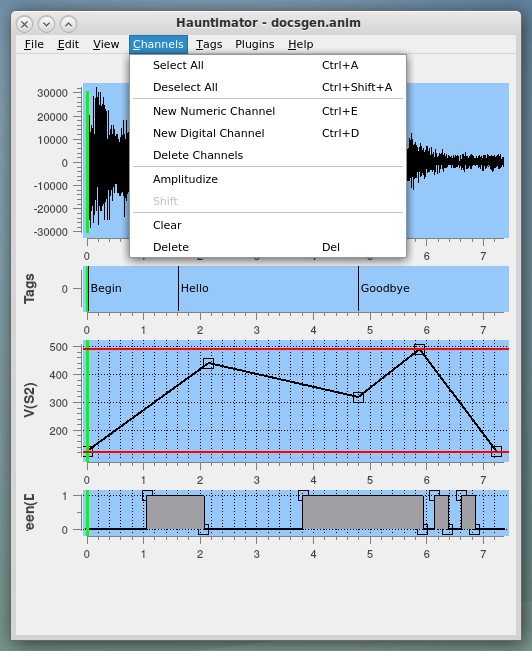
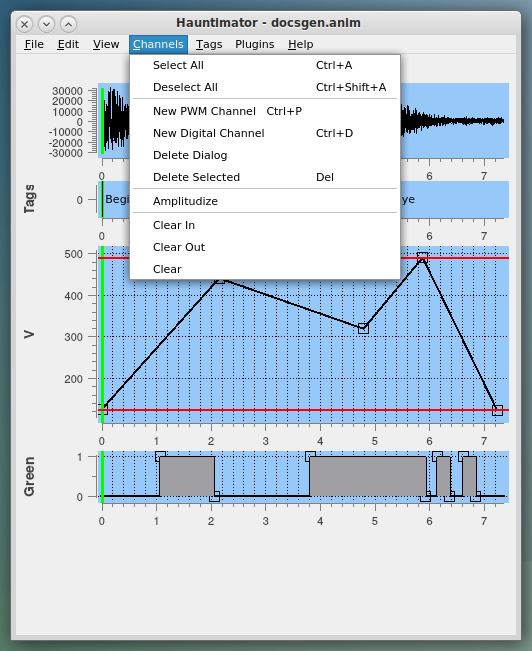
Updated docs for new menus and features

diff --git a/docs/Help.md b/docs/Help.md
@@ -229,12 +229,15 @@ one or more entire channels but not points within a channel.  Users may Paste or
 of points copied from a single channel into one or more selected channels as new points within
 those channels.  Users may Paste a single channel into one or more selected channels, replacing
 all data within those channels except name and port number.  When Pasting, the user will be given
-choice between Pasting or Inserting the copied channel.  If Insert At is selected, the channel
+choice between Pasting or Inserting the copied channel.  If Insert is selected, the channel
 will be inserted at the selected channel with a modified name and the port number cleared if
 they are already present in the animation.  If multiple channels have been Cut or Copied, they
 may only be inserted at the current selection.  Note that Insert always Inserts and does not
 give the option of overwriting the current content of a channel.  Otherwise, it behaves like
 Paste.
+
+The editing features also support copying channels from one animation file to another either
+within a single instance of Hauntimator or between multiple instances of Hauntimator.
 
 A note on selection.  To select a channel, the user clicks on the area to the left of the main
 data display window in a manner similar to Excel when selecting an entire row.  The user may
@@ -305,6 +308,7 @@ to files and communication.  The individual preferences are:
 + ServoDataFile - The name of the file containing known servo types and their associated information.  The user may rename this file or move it so the preference allows that.  The values in the servo file are used to set initial limits on the channel values.  These are based on the ServoDefaultMaximum and ServoDefaultMinimum and the duty cycle of the servo from the file.  These are NOT used to distinguish servos on GPIO pins from servos on PCA9685 boards.  That is done within the controller.
 + UploadPath - The name of the directory to upload audio and control files to as it is used in the controller software.  The Pico software that accompanies the Hauntimator and is run on the Pico looks for a particular file and this must match that.  This will typically be on the SD card and look like "/sd/anims" to match expectations in the controller software.  If the controller software is edited, this can be changed to match.  Note that this is irrelevant if writing files locally to an SD card to be transferred later to the controller.
 + TTYPortRoot - This is most of the name of the communications port to use to talk to the controller when it is plugged into the USB port on the computer that Hauntimator runs on.  Under linux, this is typically /dev/ttyACM0 but may also be /dev/ttyACM1, 2, ... so the TTYPortRoot is set to /dev/ttyACM.  On a Mac it is more like /dev/tty00bb10 so the TTYPortRoot is set to /dev/tty00bb1.  Under Windows it is something I don't care about.  Note that this is irrelevant if writing files locally to an SD card to be transferred later to the controller and otherwise not using Hauntimator to talk directly to the controller.
++ Toolbar_On_Window (Mac Only) - This controls whether the menubar for Hauntimator is at the top of the screen, the usual for Mac OSX applications, or at the top of the Hauntimator window.  If set to False, it will be at the top of the screen which makes some of the hot keys work strangely.  If set to True, it will be at the top of the window and functionality will be very much like that on Linux.
 
 <a name="view">
 &nbsp;
@@ -417,15 +421,16 @@ The Channels menu is used for operations on channels.  The options are:
 
 + Select All - Select all channels
 + Deselect All - Deselect all channels
-+ New Numeric Channel - Add an empty servo channel to the animation
++ New PWM Channel - Add an empty servo channel to the animation
 + New Digital Channel - Add an empty on/off channel to the animation
-+ Delete Channels - Bring up a channel selector to select and delete multiple channels
-+ Amplitudize - Fill all selected channels with data points that follow the amplitude of the audio
-+ Shift - Shift data points in selected data channels in time
-+ Clear - Deleta all knots in selected channels
++ Delete Dialog - Bring up a channel selector to select and delete multiple channels
 + Delete - Delete all selected channels after confirmation
++ Amplitudize - Fill all selected channels with data points that follow the amplitude of the audio
++ Clear In - Delete all knots in selected channels in visible time range
++ Clear Out - Delete all knots in selected channels except those in visible time range
++ Clear - Delete all knots in selected channels
 
-New channels are created and inserted into the display using Ctrl-E for numeric, PWM-type channels
+New channels are created and inserted into the display using Ctrl-P for numeric, PWM-type channels
 and Ctrl-D for Digital channels.  These pop up a metadata widget so the user may specify initial
 values for the metadata, including name, port number, limits, interpolation, etc.  Channel name
 validation is performed and existing channel names cannot be reused.  Port number dropdowns do
@@ -435,19 +440,21 @@ New channels are generally appended to the bottom of the display.  However, if a
 selected, new channels will be inserted at that position, pushing the selected channel and others
 down the display.
 
+The Delete function requests confirmation prior to deleting.  This is because it is difficult but
+possible to select and then delete a channel that is hidden such that the user is not immediately
+aware that a channel was deleted.  Of course the delete may be undone.  Hauntimator attempts to
+deselect any channel that is hidden so you should not have any problems with weird changes happening
+to hidden channels.
+
 The Amplitudize function fills the channel with data points based on the amplitude of the audio signal.
 By default, it only fills the visible part of the channel but the user may change that as well as the
 sampling rate of the new data points.  The dialog for the Amplitudize function also allows a cutoff value
 to be specified.  For Digital channels, any value below the cutoff results in a zero digital value while
 any value above the cutoff results in a one digital value.
 
-The Shift function is not yet implemented.
-
-The Delete function requests confirmation prior to deleting.  This is because it is difficult but
-possible to select and then delete a channel that is hidden such that the user is not immediately
-aware that a channel was deleted.  Of course the delete may be undone.  Hauntimator attempts to
-deselect any channel that is hidden so you should not have any problems with weird changes happening
-to hidden channels.
+The Clear functions are used to delete knots from selected channels.  Clear In deletes knots in the
+visible time range.  Clear Out deletes knots outside the visible time range, preserving the visible ones.
+Clear deletes all knots in the selected channels.
 
 <a name="tags">
 &nbsp;
@@ -497,6 +504,9 @@ maybe approximately align with the spoken dialogue but many shifts are generally
 alignment.  
 
 The Phonemes plugin also offers a way to populate the Tags pane.  See the plugin help for more details.
+
+At this time, there is no good way to edit the text in a tag.  Generally they have to be deleted and
+reinserted with a new string.
 
 <a name="plugins">
 &nbsp;
